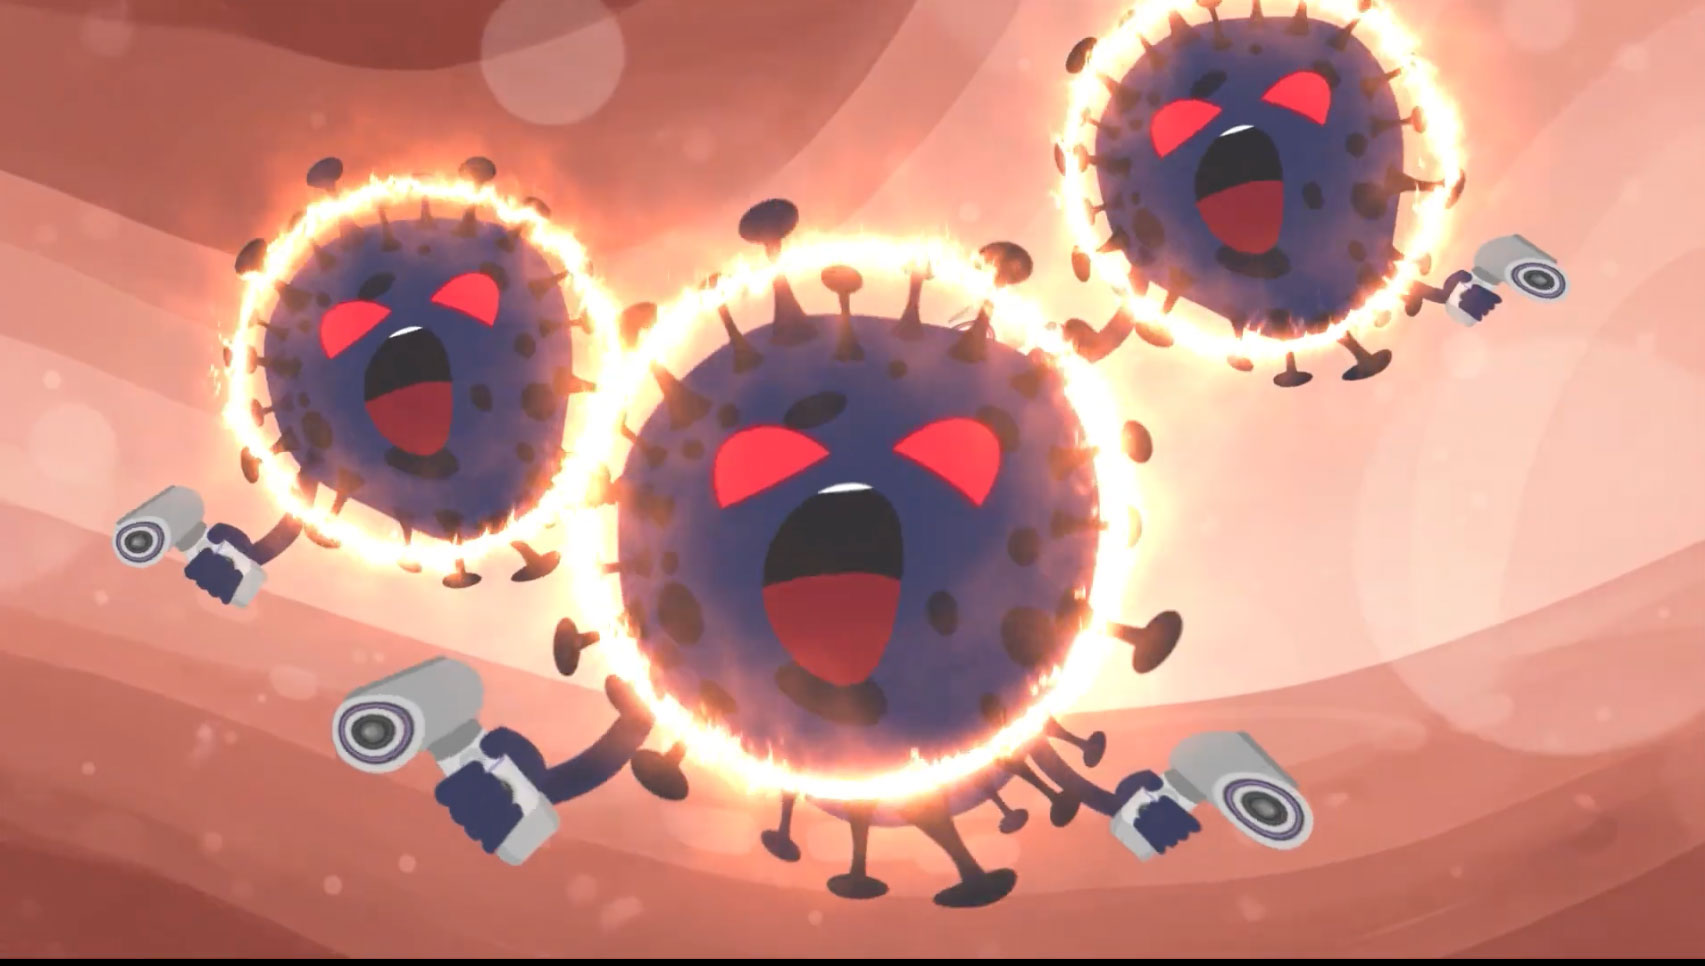
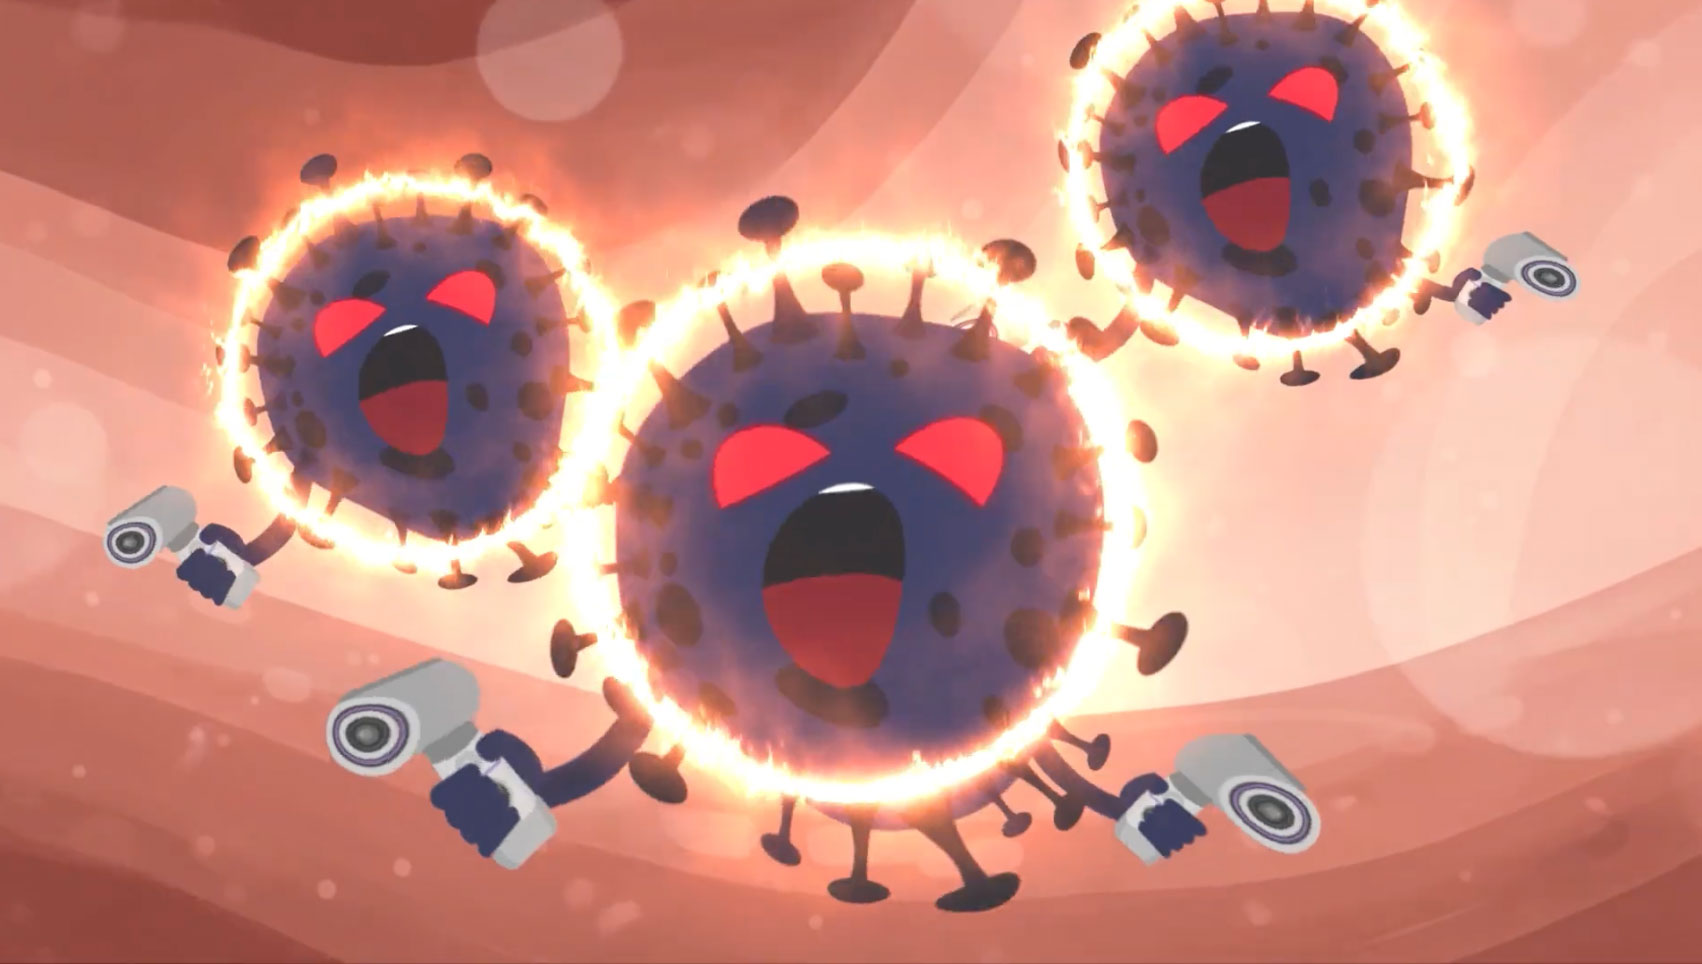
이미지 백그라운드로

diff --git a/assets/css/main.css b/assets/css/main.css
@@ -786,6 +786,8 @@ section,
     justify-content: center;
     overflow: hidden;
     padding-bottom: 80px;
+    background: url("/assets/img/profile/back.png") no-repeat right 150px fixed;
+    background-size: 60%;
 
 }
 
@@ -855,7 +857,7 @@ section,
 
 .hero .social-links a:hover {
     background: var(--accent-color);
-    color: var(--contrast-color);
+    color: var(--background-color);
     transform: translateY(-3px);
 }
 
@@ -1972,6 +1974,9 @@ section,
 /*--------------------------------------------------------------
 # Portfolio Section
 --------------------------------------------------------------*/
+.portfolio {
+    background-color: var(--surface-color);
+}
 .portfolio .portfolio-filters {
     display: flex;
     justify-content: center;
@@ -2029,6 +2034,7 @@ section,
     overflow: hidden;
     border-radius: 8px;
     aspect-ratio: 4/3;
+    box-shadow: 0 5px 20px rgba(0, 0, 0, 0.1);
 }
 
 .portfolio .portfolio-card .portfolio-image-container img {

diff --git a/index.html b/index.html
@@ -63,7 +63,7 @@
     <!-- Hero Section -->
     <section id="hero" class="hero section dark-background">
 
-        <img src="assets/img/profile/back.png" alt="" data-aos="fade-in">
+<!--        <img src="assets/img/profile/back.png" alt="" data-aos="fade-in">-->
 
         <div class="container" data-aos="fade-up" data-aos-delay="100">
             <div class="row justify-content-center">
